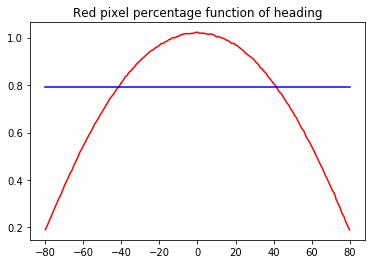
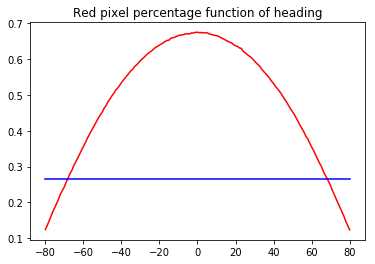
update code and README

diff --git a/stopSign.py b/stopSign.py
@@ -13,13 +13,12 @@ import cv2
 from scipy.ndimage.filters import gaussian_filter
 from sklearn.decomposition import PCA
 from sklearn.neighbors import KNeighborsRegressor
-
-from skimage.feature import match_template
+#from skimage.feature import match_template
 
 
 # Tool functions
-def compute_red_percentage(img, treshold):
-    return len(img[img>=treshold])/(img.shape[0]*img.shape[1])
+def compute_red_percentage(img, threshold):
+    return len(img[img>=threshold])/(img.shape[0]*img.shape[1])
    
 def vectorize_single(image, keep_edge):
     """ Convert the images into feature vectors of size (width x height)"""
@@ -246,22 +245,6 @@ class StopSigns:
         print ("Accuracy of the {0} set: {1}".format(mode, acc))
         return classif[classif==0].shape[0]
         
-    def red_preprocessing(self, images):
-        """
-        Images are drawn from the training, validation or testing set.
-            images is usually: self.train_images, self.val_images, or self.test_images
-        Return the matrix of features drawn from the images
-        """
-        
-        # Compute red percentage in an image
-        red_percentages_ = []
-        
-        for i in range(images.shape[0]):
-            red = compute_red_percentage(images[i],self.red_threshold)
-            red_percentages_.append(red)
-        X = np.array(red_percentages_).reshape((-1,1))
-        
-        return X
             
     
 
@@ -308,11 +291,14 @@ if __name__ == "__main__":
     # Project the data + 2D visualization
     model.pca_transform(plot = 1)
     
+    # Fitting the model with k-Nearest Neighbor
     n_neighbors = 3
     model.fit(n_neighbors)
     
+    # Prediction
     model.predict()
 
+    # Performance evaluation
     model.score("training")
     model.score("validation")
     model.score("test")
@@ -327,17 +313,16 @@ if __name__ == "__main__":
 
     """ For a new image """
     
-    res=[]
+    headings_new_img=[]
     real_img = mpimg.imread("real_images/1.jpg")
     real_img_vec = vectorize_single(real_img, keep_edge=1)
     real_img_proj = model.pca.transform(real_img_vec.reshape((1,-1)))
     for n_neighbors in range(1,500):
         model.fit(n_neighbors, verbose=0)
-        res.append(model.neigh.predict(real_img_proj)[0][0])
+        headings_new_img.append(model.neigh.predict(real_img_proj)[0][0])
     plt.title("Heading function of the number of nearest neighbors")
-    plt.plot(res)
+    plt.plot(headings_new_img)
     plt.show()
-    
     
     
     
@@ -348,7 +333,7 @@ if __name__ == "__main__":
     # RED PERCENTAGE 
     red_threshold = 200
     
-    real_image_red_percentage = compute_red_percentage(real_img, red_threshold)
+    real_image_red_percentage = compute_red_percentage(real_img[0], red_threshold)
         
     red_distribution = []
     for i in range(model.train_images.shape[0]):
@@ -356,9 +341,46 @@ if __name__ == "__main__":
         red_distribution.append(red)
     red_distribution = np.array(red_distribution).reshape((-1,1))
     
+    plt.title("Red pixel percentage function of heading")
     plt.plot(model.headings,red_distribution[::18],c='r')
     plt.plot(model.headings,np.full((161,1),real_image_red_percentage),c='b')
     plt.show()
+    
+    
+    
+    
+
+    test = real_img.copy()
+    #test= model.train_images[0]
+    plt.imshow(test)
+    plt.show()
+
+    
+    only_red = np.zeros((275,275), dtype=np.uint16)
+    cb = 0
+    cg = 0
+    alpha = 0.04
+    for i in range(275):
+        for j in range(275):
+            if (test[i,j,1]==0):
+                cb = test[i,j,0]
+            else: 
+                cb = test[i,j,0]/test[i,j,1]
+            if (test[i,j,2]==0):
+                cg = test[i,j,0]
+            else: 
+                cg = test[i,j,0]/test[i,j,2]
+            R = cb*cg - alpha*(cb+cg)**2
+            only_red[i,j] = R
+    
+    only_red[only_red<10]=0
+    only_red[only_red>=10]=1
+
+    plt.imshow(only_red,cmap='gray')
+    plt.show()
+    
+    
+    print(len(only_red[only_red==1])/(only_red.shape[0]*only_red.shape[1]))
     
     """
     # TEMPLATE MATCHING ATTEMPT
@@ -379,13 +401,12 @@ if __name__ == "__main__":
     print("The template position is at: ",np.unravel_index(correlation_map.argmax()\
                             , correlation_map.shape))
     
-    
+    """
     # EDGES
-
-
+    """
     im3 = real_img.copy()
     im3 = gaussian_filter(im3, sigma = 2)
-    im3=im2.copy()
+    im3= model.train_images[2*18].copy()
     im3 = gaussian_filter(im3, sigma = 1.5)
     plt.imshow(im3)
     plt.show()
@@ -395,10 +416,12 @@ if __name__ == "__main__":
     plt.show()
     cannyEdges = cv2.Canny(np.uint8(grayImg*255),30,140) #accept only uint8 images
     plt.title("Canny Edge detector")
-    plt.imshow(cannyEdges,cmap="gray")
+    plt.imshow(gaussian_filter(cannyEdges,sigma=1),cmap="gray")
     plt.show()
+    
+    
+    plt.imshow(gaussian_filter(model.X_train[105*18].reshape(275,275),sigma=2))
     """
-
             
     """ SANDBOX """
     """
@@ -433,6 +456,24 @@ if __name__ == "__main__":
     white_img[white_img<white_threshold]=0
     plt.imshow(white_img,cmap='gray')
     plt.show()
+    
+    
+    def red_preprocessing(self, images):
+    
+        Images are drawn from the training, validation or testing set.
+            images is usually: self.train_images, self.val_images, or self.test_images
+        Return the matrix of features drawn from the images
+        
+        
+        # Compute red percentage in an image
+        red_percentages_ = []
+        
+        for i in range(images.shape[0]):
+            red = compute_red_percentage(images[i],self.red_threshold)
+            red_percentages_.append(red)
+        X = np.array(red_percentages_).reshape((-1,1))
+        
+        return X
     
     
     

diff --git a/README.md b/README.md
@@ -112,17 +112,36 @@ This approach intends to make the previous solution more robust to different and
 
 Let's look at the last option first and observe the specific features of a stop sign that could help us retrieve the heading value.
 First, the color: flashy red! Not that common in the picture background which is usually the sky, building, trees, ...
-In our dataset, the percentage of red pixels (easily recovered using the first channel of the images) is strongly linked to the absolute value of the heading. The following image illustrates the percentage of red pixels in the image function of the heading.
+In our dataset, the percentage of red pixels (easily recovered using the first channel of the images because of the aspect of our dataset) is strongly linked to the absolute value of the heading. The following image illustrates the percentage of red pixels in the image function of the heading.
 
 ![Alt text](plots/red_percentage.png?raw=true "Percentage of red pixels function of the heading")
 
 We can fit easily this curve using degree 2 polynomial regression. On the test set, this would actually makes us able to retrieve the absolute value of the heading with a really good accuracy.
 
-But this approach on a real world image would be strongly sensitive to the scale. In fact, the blue line indicates the percentage of the real image found (79.37%). This percentage would corresponds to an absolute value of eading equal to 41° on the fitted curve.
-This image is an example of a 41° heading and as we see, this is still too much compared to the true heading of the real image considered earlier (around 25° approximately). But this solution is better than the one previously found based on the K-nearest neighbor.
+But this approach on a real world image would be strongly sensitive to the scale. In fact, the blue line indicates the percentage of the real image found (26.47%). This percentage would corresponds to an absolute value of heading around 70° on the fitted curve.
+This image is an example of a 70° heading and as we see, this is still too much compared to the true heading of the real image considered earlier (around 30° approximately). But this solution is better than the one previously found based on the K-nearest neighbor.
 
-![Alt text](real_images/sign_41_0.jpg?raw=true "Stop Sign with a 41° heading")
+![Alt text](real_images/sign_70_0.jpg?raw=true "Stop Sign with a 70° heading")
 
+
+For a real image, how can we compute the percentage of red pixels in the images?
+Looking only at the Red channel only an threshold it will detect a lot of non-red pixel as well.
+It can be interesting to look at the two ratio of the pixel value on the first channel with the pixel value on the second and third channel. Ideally, for a red color, this ratio should be high and similar.
+Let's note *r_blue* and *r_green* those two ratio: by computing the value  $$r_blue x r_green - 0.04(r_blue+r_green)^{2}$$. Thresholding that value allows us to recover a high number of red pixels coming from the stop sign. Let's see on the previous example:
+
+![Alt text](plots/red_pixels_real_image.png?raw=true "Red Pixels in the real image")
+
+Let's look at this solution on another real image containing red similar colors/
+
+![Alt text](real_images/2.jpg?raw=true "Real image n2")
+![Alt text](plots/red_pixels_real_image2.png?raw=true "Red Pixels in the real image 2")
+
+This shows good results.
+The next step would be to leverage that percentage of pixel to find the absolute value of the heading. But this would be constrained to some scale factor. To deal with that issue, I would spot the approximate center of the stop signs using the red pixel repartition, then use a scale-invariant function to evaluate the proper scale factor. And use that scale factor to update the red pixel percentage and predict the absolute value with the 2D-polynomial regression fitted model.
+
+To detect the sign of the heading, my approach would be to work on the edges of the image and compare the length of the left edges and the right edges.
+
+With more time, I would have enjoyed exploring an approach using convolutional neural network as well.
 
 
 ## References
